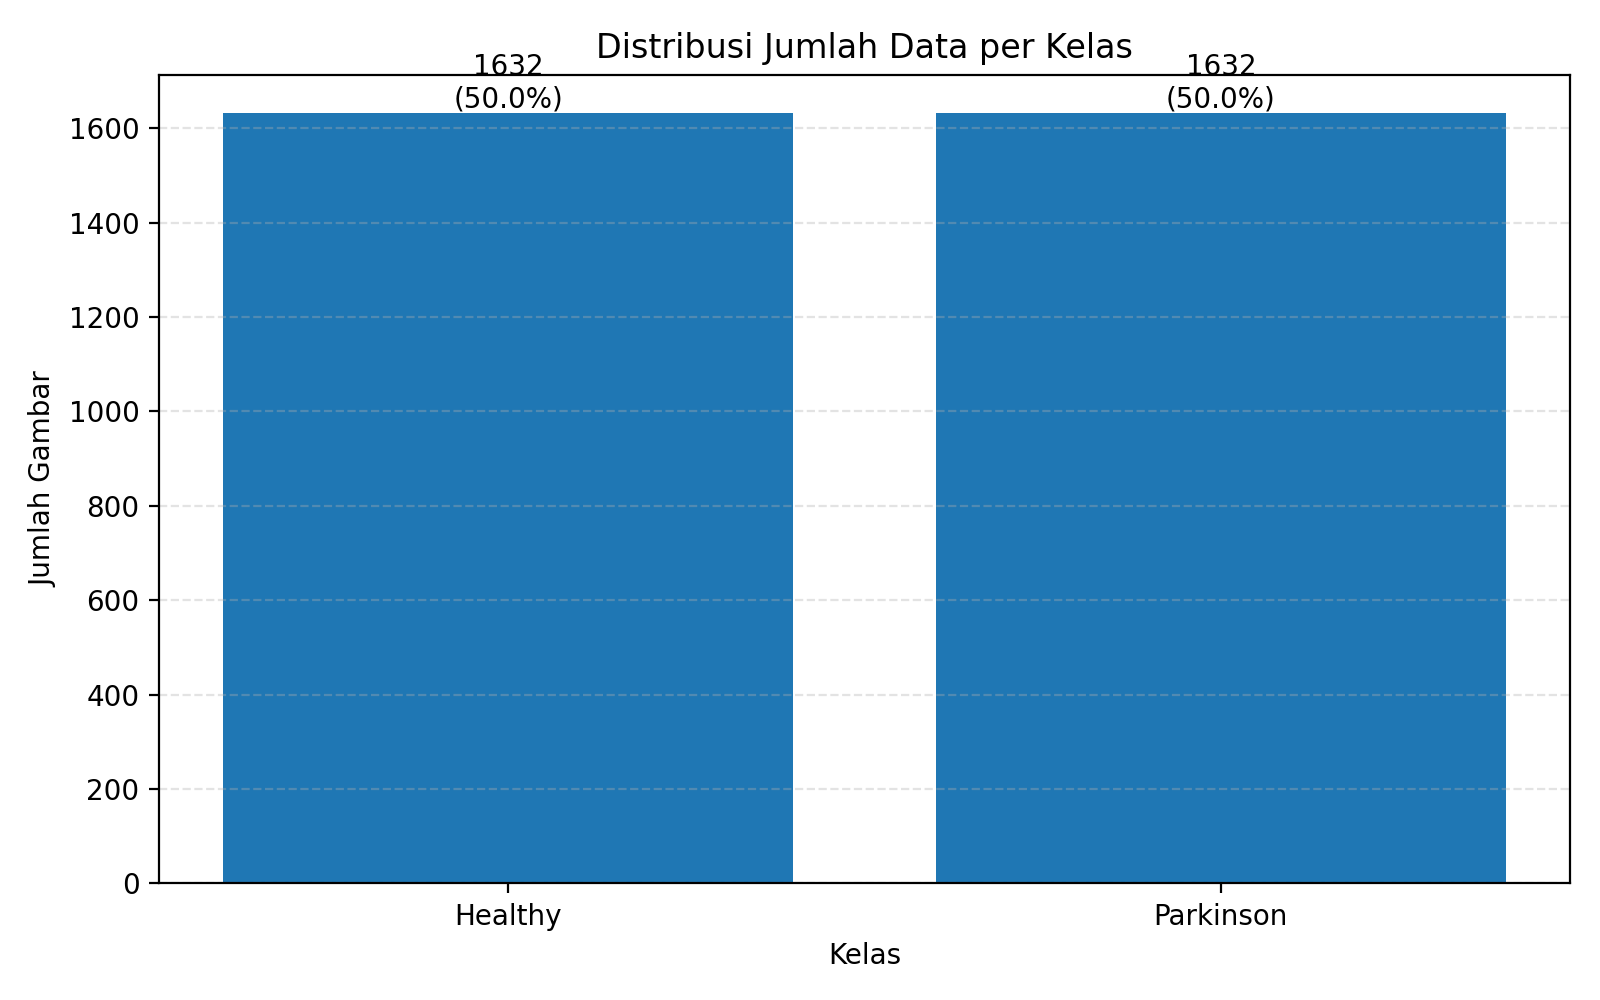
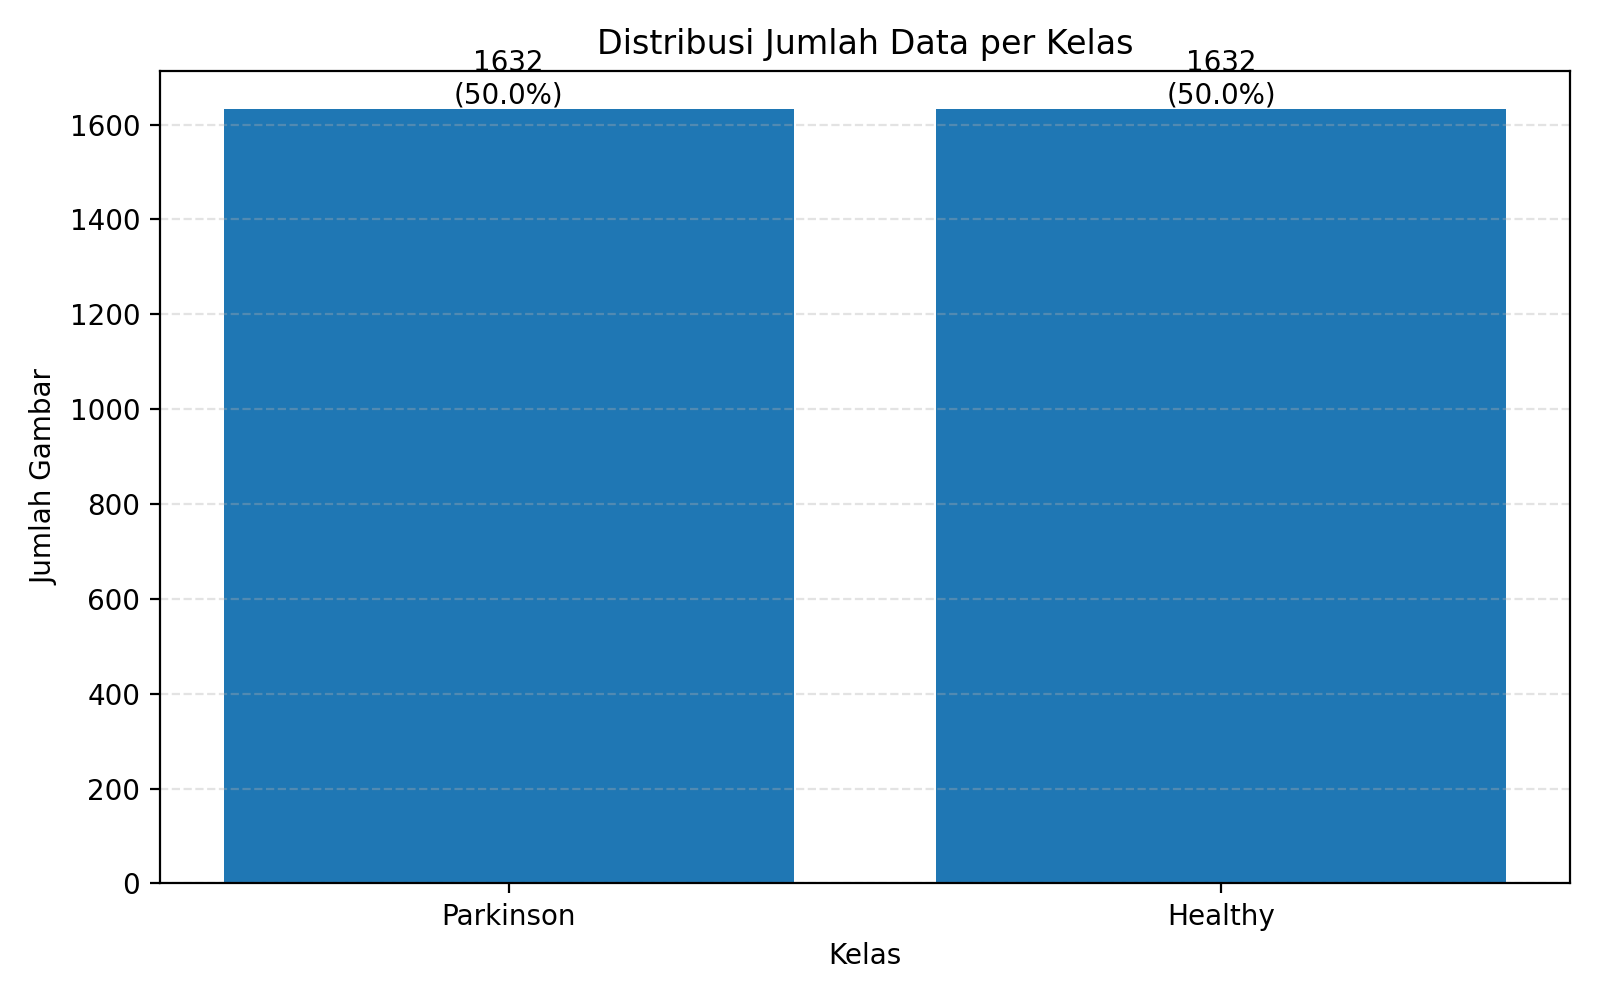
.gitignore updated

diff --git a/model/training_common.py b/model/training_common.py
@@ -1,6 +1,8 @@
 import argparse
 import json
+import os
 import random
+from contextlib import nullcontext
 from datetime import datetime
 from pathlib import Path
 from typing import Callable, Dict, List, Optional, Tuple
@@ -31,9 +33,61 @@ def set_global_seed(seed: int) -> None:
     tf.random.set_seed(seed)
 
 
-def ensure_gpu_available(gpu_memory_limit_mb: Optional[int] = None) -> None:
+def configure_cpu_runtime(
+    max_cpu_usage_percent: int,
+    cpu_thread_limit: Optional[int] = None,
+) -> int:
+    total_logical_cpu = os.cpu_count() or 1
+    safe_percent = min(100, max(10, int(max_cpu_usage_percent)))
+    auto_thread_limit = max(1, int(total_logical_cpu * (safe_percent / 100.0)))
+    thread_limit = auto_thread_limit
+    if cpu_thread_limit is not None and cpu_thread_limit > 0:
+        thread_limit = max(1, min(total_logical_cpu, int(cpu_thread_limit)))
+
+    inter_op_threads = max(1, min(4, thread_limit // 2 if thread_limit > 1 else 1))
+    try:
+        tf.config.threading.set_intra_op_parallelism_threads(thread_limit)
+        tf.config.threading.set_inter_op_parallelism_threads(inter_op_threads)
+    except Exception as exc:
+        print("Peringatan: gagal mengatur batas thread CPU -> {}".format(exc))
+
+    print("\n=== Kontrol CPU ===")
+    print("Logical CPU terdeteksi    :", total_logical_cpu)
+    print("Target maksimal CPU (%)   :", safe_percent)
+    print("Batas thread CPU aktif    :", thread_limit)
+    return thread_limit
+
+
+def activate_cpu_mode(reason: str, cpu_thread_limit: int, max_cpu_usage_percent: int) -> None:
+    print("\n[CPU Fallback] {}".format(reason))
+    try:
+        tf.config.set_visible_devices([], "GPU")
+    except Exception:
+        # Aman diabaikan jika runtime sudah inisialisasi.
+        pass
+    print("Training dilanjutkan di CPU.")
+    print(
+        "Batas CPU: {} thread (target <= {}% logical CPU).".format(
+            cpu_thread_limit, min(100, max(10, int(max_cpu_usage_percent)))
+        )
+    )
+
+
+def configure_compute_device(
+    gpu_memory_limit_mb: Optional[int],
+    allow_cpu_fallback: bool,
+    cpu_thread_limit: int,
+    max_cpu_usage_percent: int,
+) -> str:
     gpu_devices = tf.config.list_physical_devices("GPU")
     if not gpu_devices:
+        if allow_cpu_fallback:
+            activate_cpu_mode(
+                "GPU tidak terdeteksi.",
+                cpu_thread_limit=cpu_thread_limit,
+                max_cpu_usage_percent=max_cpu_usage_percent,
+            )
+            return "cpu"
         print("\n[TRAINING DIBATALKAN] GPU tidak terdeteksi.")
         print("Pastikan TensorFlow GPU dan driver CUDA/cuDNN sudah terpasang dengan benar.")
         raise SystemExit(1)
@@ -44,7 +98,8 @@ def ensure_gpu_available(gpu_memory_limit_mb: Optional[int] = None) -> None:
                 gpu_devices[0],
                 [tf.config.LogicalDeviceConfiguration(memory_limit=gpu_memory_limit_mb)],
             )
-        except Exception:
+        except Exception as exc:
+            print("Peringatan: gagal set batas memori GPU -> {}".format(exc))
             # Jika gagal set limit (mis. runtime sudah inisialisasi), fallback ke memory growth.
             for device in gpu_devices:
                 try:
@@ -64,10 +119,29 @@ def ensure_gpu_available(gpu_memory_limit_mb: Optional[int] = None) -> None:
         print("- {}".format(device.name))
     if gpu_memory_limit_mb is not None and gpu_memory_limit_mb > 0:
         print("Batas memori GPU: {} MB".format(gpu_memory_limit_mb))
+    return "gpu"
 
 
-def apply_runtime_optimizations(enable_mixed_precision: bool) -> None:
+def is_gpu_memory_error(exc: Exception) -> bool:
+    if isinstance(exc, tf.errors.ResourceExhaustedError):
+        return True
+    message = str(exc).lower()
+    memory_keywords = [
+        "resource exhausted",
+        "out of memory",
+        "oom",
+        "cuda_error_out_of_memory",
+        "failed to allocate",
+        "cudnn_status_alloc_failed",
+    ]
+    return any(keyword in message for keyword in memory_keywords)
+
+
+def apply_runtime_optimizations(enable_mixed_precision: bool, using_gpu: bool) -> None:
     if not enable_mixed_precision:
+        return
+    if not using_gpu:
+        print("Mixed precision dilewati karena mode CPU.")
         return
 
     try:
@@ -420,8 +494,20 @@ def run_training_pipeline(
     args: argparse.Namespace,
 ) -> Dict[str, Path]:
     set_global_seed(args.seed)
-    ensure_gpu_available(args.gpu_memory_limit_mb)
-    apply_runtime_optimizations(args.mixed_precision)
+    cpu_thread_limit = configure_cpu_runtime(
+        max_cpu_usage_percent=args.max_cpu_usage_percent,
+        cpu_thread_limit=args.cpu_thread_limit,
+    )
+    compute_device = configure_compute_device(
+        gpu_memory_limit_mb=args.gpu_memory_limit_mb,
+        allow_cpu_fallback=not args.disable_cpu_fallback,
+        cpu_thread_limit=cpu_thread_limit,
+        max_cpu_usage_percent=args.max_cpu_usage_percent,
+    )
+    apply_runtime_optimizations(
+        enable_mixed_precision=args.mixed_precision,
+        using_gpu=compute_device == "gpu",
+    )
 
     project_root = Path(__file__).resolve().parents[1]
     dataset_dir = (project_root / args.dataset_dir).resolve()
@@ -490,6 +576,7 @@ def run_training_pipeline(
     print("Shuffle buffer            :", args.shuffle_buffer_size)
     print("Parallel map calls        :", args.num_parallel_calls)
     print("Prefetch buffer           :", args.prefetch_buffer)
+    print("Device aktif              :", "GPU" if compute_device == "gpu" else "CPU")
     print("Sample train dipakai      :", effective_train_samples, "dari", len(train_labels))
     print("Sample validation dipakai :", effective_validation_samples, "dari", len(val_labels))
     print("Sample test dipakai       :", effective_test_samples, "dari", len(test_labels))
